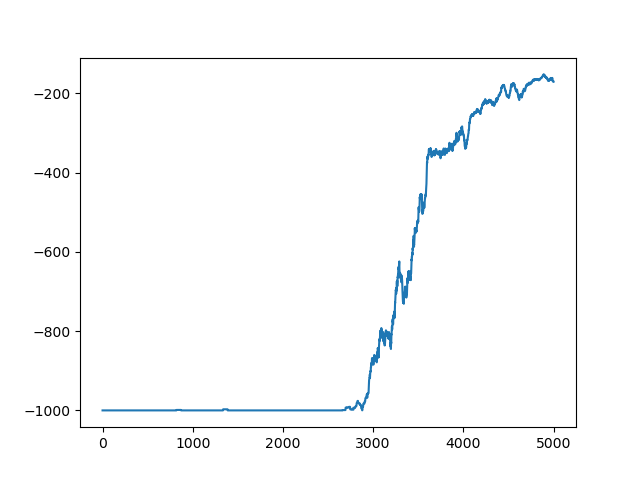
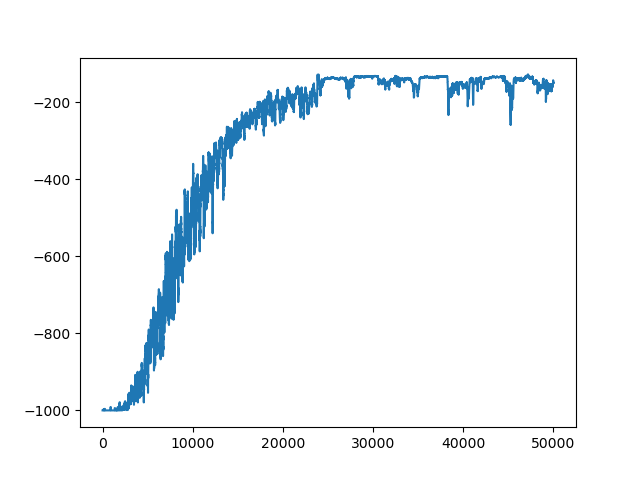
gitignore

diff --git a/q2.py b/q2.py
@@ -2,8 +2,8 @@ import numpy as np
 import gym
 import matplotlib.pyplot as plt
 
-pos_space = np.linspace(-1.2, 0.6, 20)
-vel_space = np.linspace(-0.07, 0.07, 20)
+# pos_space = np.linspace(-1.2, 0.6, 20)
+# vel_space = np.linspace(-0.07, 0.07, 20)
 
 def to_discrete(pos_limit, vel_limit, bin_size=20):
 
@@ -45,6 +45,7 @@ def get_env_limit(env):
 
 if __name__ == "__main__":
     # ? initial setup
+    plt.style.use('ggplot')
     env = gym.make("MountainCar-v0")
 
     #The number of bin we used to convert continuous space to discrete space
@@ -54,10 +55,10 @@ if __name__ == "__main__":
 
 
 
-    n_games = 5000
+    n_games = 25000
     learning_rate = 0.1
     gamma = 0.99
-    epsilon =  2.0
+    epsilon =  1.0
     env._max_episode_steps = 1000
 
     states = create_state_space(20)
@@ -70,6 +71,9 @@ if __name__ == "__main__":
 
     score = 0
     total_rewards = np.zeros(n_games)
+    aggr_ep_rewards = {"episode":[], "average":[], "minimum":[], "maximum":[]}
+
+
     for i in range(n_games):
         done = False
         obs = env.reset()
@@ -92,16 +96,30 @@ if __name__ == "__main__":
                 learning_rate*(reward + gamma*Q[new_state, action_] - Q[state, action])
             state = new_state
 
-            if new_obs[0] >= env.goal_position:
-                print(done)
-                print(f"done on episode{i} ")
+            # if new_obs[0] >= env.goal_position:
+                # print(done)
+                # print(f"done on episode{i} ")
         total_rewards[i] = score
         epsilon = epsilon - 2/n_games if epsilon > 0.01 else 0.01
 
+
     mean_rewards = np.zeros(n_games)
+    max_rewards = np.zeros(n_games)
+    min_rewards = np.zeros(n_games)
+    num_game = np.zeros(n_games)
     for t in range(n_games):
+        num_game[t] = t
         mean_rewards[t] = np.mean(total_rewards[max(0,t-50):(t+1)])
-    plt.plot(mean_rewards)
-    plt.savefig('Q-MountainCar.png')
+        max_rewards[t] = np.max(total_rewards[max(0,t-50):(t+1)])
+        min_rewards[t] = np.min(total_rewards[max(0,t-50):(t+1)])
+
+    # plt.plot(mean_rewards)
+    # plt.savefig('Q-MountainCar.png')
+
+    plt.plot(num_game, mean_rewards, label="avg")
+    plt.plot(num_game, min_rewards, label="min")
+    plt.plot(num_game, max_rewards, label="max")
+    plt.legend(loc=1)
+    plt.show()
 
         

diff --git a/testEnv.py b/testEnv.py
@@ -1,6 +1,7 @@
 import gym
 import numpy as np
 import matplotlib.pyplot as plt
+plt.style.use('ggplot')
 
 env = gym.make("CartPole-v1" )
 # env = gym.make('BipedalWalker-v3')

diff --git a/testpy.py b/testpy.py
@@ -13,7 +13,7 @@ for state in state_space:
 
 # print(state_space)
 
-
-print(state)
+for t in range(10):
+    print(max(0,t-5))
 
 
